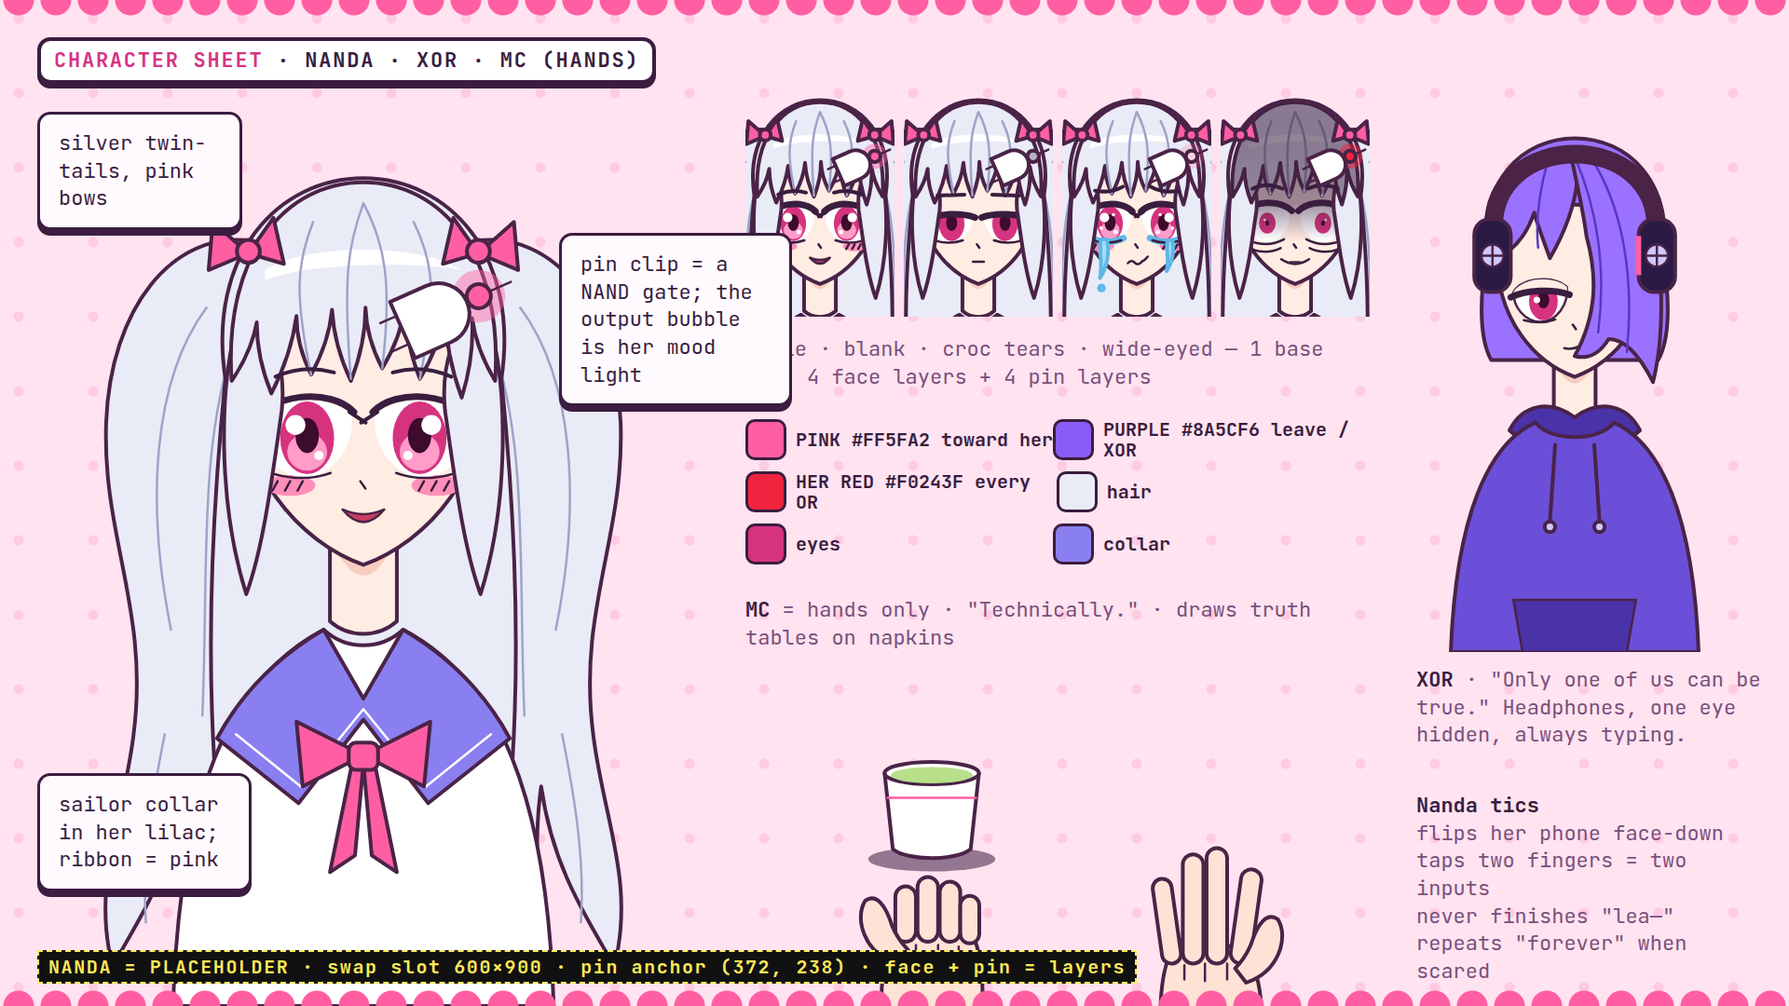
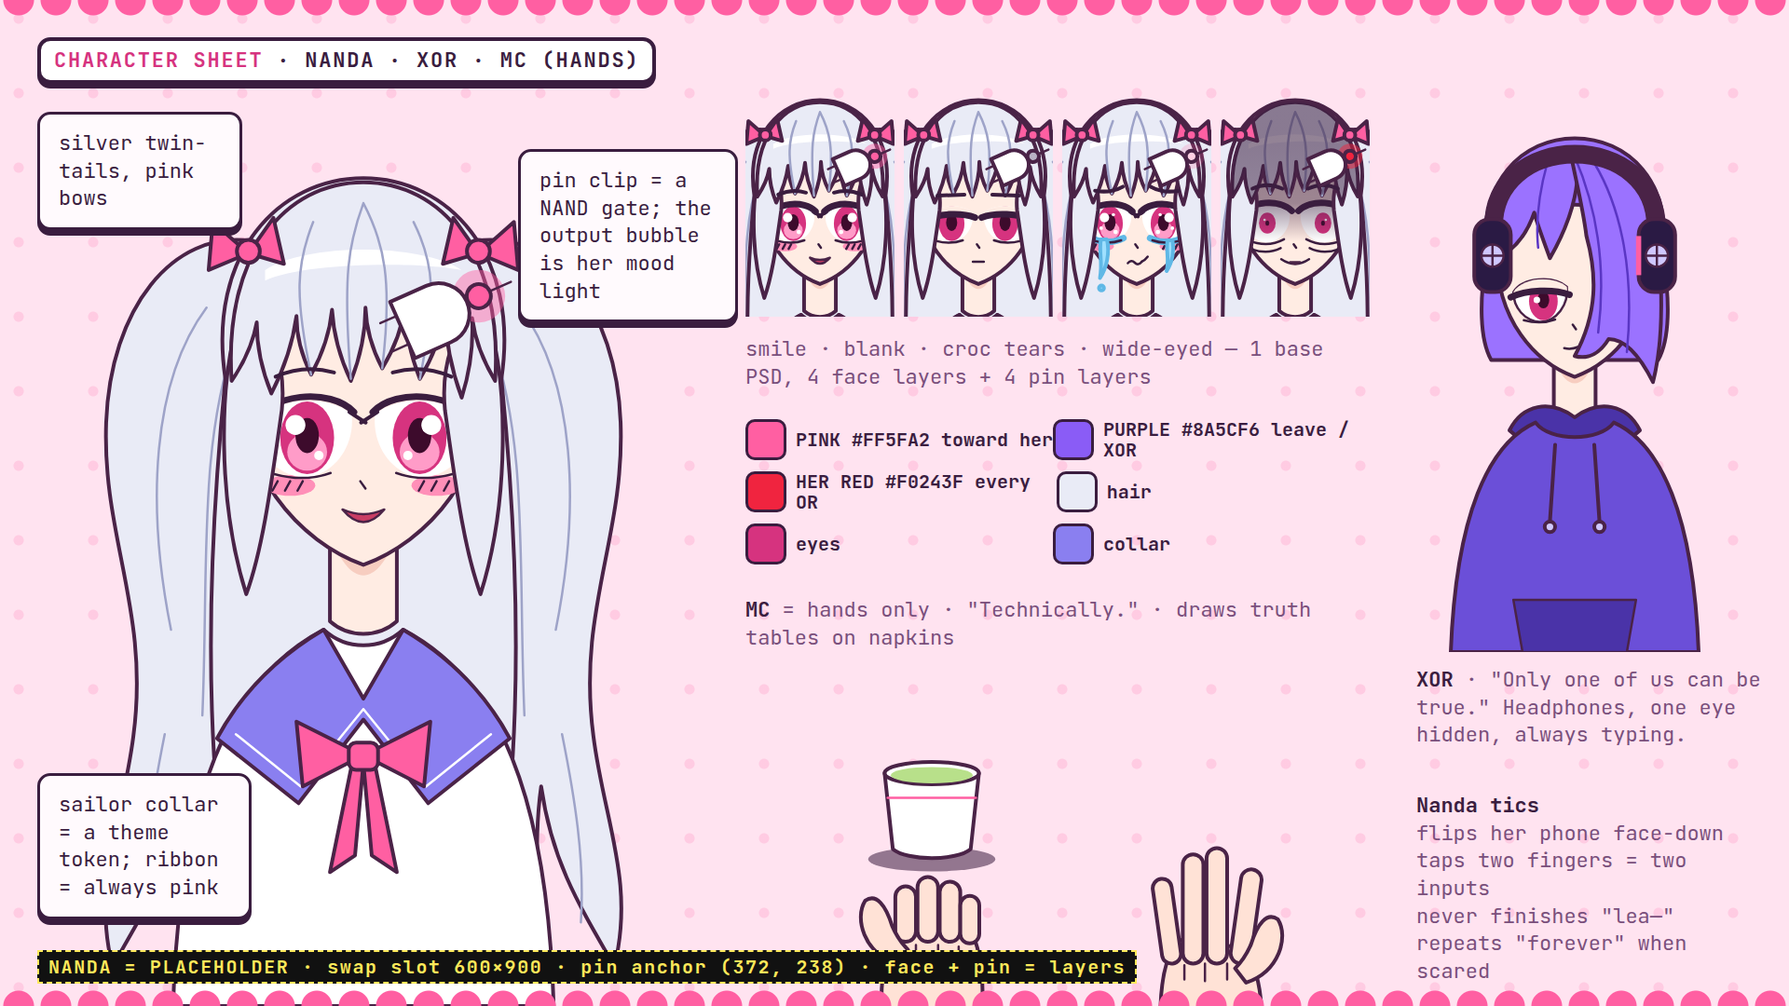
date-beta mockups R1: variant C (Circuit) + sheet callout fix
Claude-Session: https://claude.ai/code/session_01UhPYoEZsoNzPhdV9xxEjmA

Changed region(s): [[0.2812, 0.1528, 0.4688, 0.4278], [0.0, 0.825, 0.1562, 0.9167]]

diff --git a/research/date-beta-mockups/C/theme.css b/research/date-beta-mockups/C/theme.css
@@ -1,0 +1,192 @@
+/* VARIANT C — CIRCUIT. The date is a board she designed; you are a component on it.
+   Material: green solder mask, copper traces, white silkscreen, black epoxy IC packages, LEDs.
+   The dialogue box is a chip (pins top + bottom, pin-1 notch). Choices are gates: pink = the AND gate, wired + PULLED UP
+   (a pull-up resistor = the default is pink); purple = a trace that goes nowhere (net OUT_LEAVE → NC at dread 2).
+   Dread 0 = clean board. 1 = overheated (copper browns, amber glow, scorch rings). 2 = shorted (traces reroute to U1,
+   everything runs her red, solder bridges on the pins). Text always sits on black epoxy: ≥ 7:1 in every state. */
+:root {
+  --page-bg: #03100a;
+  --bg: #0c2a1d; --ink: #dcf7e6; --ink-2: #9fd0b2;
+  --surface: #0d1411; --surface-ink: #ecfff2; --edge: #c98b4a; --edge-w: 3px; --radius: 4px;
+  --shadow: 0 0 0 transparent;
+  --copper: #d9924f; --copper-2: #8a5a2e; --silk: #e6f5ea; --mask: #0c2a1d; --mask-2: #134433; --epoxy: #0d1411; --led: #3dff8a;
+  --name-bg: var(--copper); --name-ink: #1a0d03; --name-mc-bg: #e6f5ea; --name-mc-ink: #06140d;
+  --cap-bg: #000; --cap-ink: #ecfff2; --focus: #e6f5ea;
+  --font-display: 'IT', 'RC', sans-serif; --font-body: 'RC', 'Liberation Sans', sans-serif; --font-mono: 'JBM', 'DejaVu Sans Mono', monospace;
+  --art-stroke: #03120b; --art-sw: 3px; --art-sw-thin: 2px; --art-sw-fat: 6px;
+  --chat-bg: #e9f3ec; --chat-head: #f7fbf8; --bub-in: #ffffff; --bub-out: #cfe9d9; --notif-bg: #0d1411; --notif-ink: #ecfff2;
+  --flow-node: #0d1411; --flow-ink: #ecfff2; --flow-edge: #d9924f; --node-r: 3px;
+  --err-bg: #0d1411; --err-ink: #ecfff2; --fx-bg: #0c2a1d;
+
+  /* art roles. Characters = POWERED parts (light fills, dark ink). The world = unpowered board (mask fills, silkscreen lines). */
+  --c-hair: #dfe6e2; --c-hair2: #a4b3ab; --c-hairhl: #ffffff; --s-hair2: #8a9a92;
+  --c-skin: #f6e6d4; --c-skin2: #dec2a6; --c-white: #ffffff; --c-iris: #d6336a; --c-iris2: #ff8fb4; --c-pupil: #2a0a18;
+  --c-lash: #03120b; --s-lash: #03120b; --c-blush: #ff8fb0; --c-mouth: #b8465a;
+  --c-cloth: #eef5ef; --c-cloth2: #b9cfc1; --c-collar: #1d6b48; --c-stripe: #eef5ef; --s-stripe: #eef5ef; --c-ribbon: #ff5fa2;
+  --c-tie: #eef5ef; --c-pin: #ff5fa2; --c-tear: #bfeaff; --s-tear: #6fb6d6; --c-shade: rgba(3, 18, 11, .6);
+  --c-sil: #020805; --s-sil: #2f6a4c; --c-eye: #ff2a45;
+  --c-metal: #16392a; --s-metal: #b8e6c8; --c-wall: #0f3324; --s-wall: #6fb892; --c-wall2: #0c2a1d; --s-wall2: #6fb892;
+  --c-floor: #0a2419; --s-floor: #6fb892; --c-floor2: #071a12; --s-floor2: #4f9a74;
+  --c-glass: #051510; --s-glass: #b8e6c8; --c-seat: #1b4a36; --s-seat: #b8e6c8; --c-light: #d9f7e4; --s-light: #b8e6c8;
+  --c-wood: #6b4524; --s-wood: #e0a46a; --c-wood2: #4f321a; --s-wood2: #e0a46a; --c-tile: #103826; --s-tile: #6fb892;
+  --c-cup: #eef5ef; --c-tea: #9cc46a; --c-steam: none; --s-steam: #dcf7e6; --c-plum: #e8335c; --c-egg: #f2cf4a; --c-mochi: #f7fbf8;
+  --c-phone: #0d1411; --s-phone: #d9924f; --c-screen: #e9f3ec; --c-xhair: #8a5cf6; --c-xhair2: #6a45d6; --s-xhair2: #5a36c4;
+  --c-hood: #2a2350; --c-hood2: #1c173a; --c-cans: #0d1411; --c-hand: #f6e6d4; --c-hand2: #dec2a6; --c-sleeve: #1d6b48;
+  --c-paper: #e6f5ea; --s-paper: #b8e6c8; --c-frame: #d9924f; --c-candle: #eef5ef; --c-flame: #ffc868; --c-night: #04130c; --s-night: #2f6a4c;
+  --c-shoe: #2b1d12; --s-shoe: #e0a46a; --c-shoe2: #0d1411; --c-slipper: #1b4a36; --s-slipper: #b8e6c8; --c-strap: #b8e6c8;
+  --c-accent: #d9924f; --s-accent: #d9924f;
+}
+.pin-hum .pinbub { fill: var(--pink); } .pin-hum .pinglow { fill: var(--pink); opacity: .55; }
+.pin-flicker .pinbub { fill: #ffc4dc; } .pin-flicker .pinglow { fill: var(--pink); opacity: .2; }
+.pin-red .pinbub { fill: var(--her); } .pin-red .pinglow { fill: var(--her); opacity: .6; }
+.pin-off .pinbub { fill: #4f6a5c; } .pin-off .pinglow { opacity: 0; }
+
+/* ---------- board material: solder mask + 0.1" grid ---------- */
+.board { background: var(--bg) radial-gradient(circle at 20px 20px, rgba(184, 230, 200, .16) 2px, transparent 3px) 0 0 / 40px 40px; }
+.board > .label { top: 30px; padding: 8px 12px; background: #04100a; color: var(--silk); border: 2px solid var(--silk); border-radius: 0; font-family: var(--font-mono); }
+.board > .label b { color: #ffb070; }
+.board > .label::before { content: 'J0 '; color: var(--copper); }
+.pcb { position: absolute; inset: 0; pointer-events: none; z-index: 12; }
+.pcb svg { width: 100%; height: 100%; display: block; }
+.pcb .tr { fill: none; stroke: var(--copper); stroke-width: 6; stroke-linecap: round; stroke-linejoin: round; opacity: .9; }
+.pcb .tr.w { stroke-width: 12; }
+.pcb .via { fill: #04100a; stroke: var(--copper); stroke-width: 5; }
+.pcb .hole { fill: #020604; stroke: #c9ccc4; stroke-width: 10; }
+.pcb .silk { fill: none; stroke: var(--silk); stroke-width: 3; }
+.pcb text { font: 700 22px/1 var(--font-mono); fill: var(--silk); letter-spacing: .08em; }
+.pcb .led { stroke: #04100a; stroke-width: 3; }
+.pcb .led.g { fill: var(--led); } .pcb .led.a { fill: #ffb020; } .pcb .led.r { fill: var(--her); } .pcb .led.o { fill: #18301f; }
+.pcb .scorch { fill: url(#scorch); }
+.refdes { position: absolute; z-index: 15; font: 700 30px/1 var(--font-mono); color: var(--silk); letter-spacing: .06em; padding-left: 16px; border-left: 3px solid var(--silk); }
+.refdes small { font-size: 20px; color: var(--ink-2); }
+.refdes.hot { color: #ffb070; border-color: #ffb070; }
+.refdes.short { color: #fff; border-color: var(--her); background: var(--her); padding: 6px 12px; }
+
+/* ---------- dialogue box = an IC package ---------- */
+.dlg { background: radial-gradient(circle at 0 50%, #04100a 22px, transparent 23px), radial-gradient(circle at 34px 34px, #2b3a33 7px, transparent 8px), var(--epoxy);
+  border: 3px solid #2e3d36; border-radius: 3px; padding: 46px 64px 38px 72px; }
+.dlg::before, .dlg::after { content: ''; position: absolute; left: 60px; right: 60px; height: 18px; pointer-events: none;
+  background: repeating-linear-gradient(90deg, #c9ccc4 0 22px, transparent 22px 58px); }
+.dlg::before { top: -21px; } .dlg::after { bottom: -21px; }
+.dlg .who { top: -34px; left: 120px; z-index: 2; border-radius: 0; font-family: var(--font-mono); font-size: 28px; padding: 9px 16px; letter-spacing: .1em; border: 3px solid #04100a; }
+.dlg .who::before { content: 'U1 · '; opacity: .75; }
+.dlg.mc .who::before { content: 'J1 · '; }
+.dlg.crowd .who::before { content: 'BUS[0:31] · '; }
+.dlg .next { font-family: var(--font-mono); color: var(--ink-2); }
+.dlg.narr { border-style: solid; border-color: #3d4f46; }
+.dlg.narr .line { color: #cfe6d8; }
+.dlg.head { background: transparent; border: 3px dashed var(--pink); }
+.dlg.head::before, .dlg.head::after { background: repeating-linear-gradient(90deg, rgba(255, 95, 162, .55) 0 22px, transparent 22px 58px); }
+.dlg.head .who { color: var(--pink); background: #04100a; border: 3px dashed var(--pink); }
+.dlg.head .who::before { content: 'U1/INT · '; }
+.dlg.head .line { font-family: var(--font-mono); font-size: 44px; color: #ffc4dc; font-style: normal; }
+.dlg.crowd .line { font-family: var(--font-display); font-weight: 800; font-size: 70px; letter-spacing: .02em; }
+.dlg.crowd .who { background: #04100a; color: var(--silk); border-color: var(--silk); }
+
+/* ---------- choices = gates. Pink: the AND gate, wired, PULLED UP (default). Purple: a trace to nowhere. ---------- */
+.choice { border-radius: 4px; font-family: var(--font-body); font-weight: 700; box-shadow: 0 0 0 4px #04100a; }
+.choice.pink { border-radius: 4px 120px 120px 4px; padding-right: 110px; border: 4px solid #04100a;
+  background: radial-gradient(circle at 0 0, rgba(255, 255, 255, .25) 0 30%, transparent 31%) no-repeat, var(--pink); }
+.choice.pink::before { content: ''; position: absolute; left: -46px; top: 30%; width: 46px; height: 40%; pointer-events: none;
+  border-top: 8px solid var(--copper); border-bottom: 8px solid var(--copper); }
+.choice.pink::after { content: '♥'; position: absolute; right: 26px; top: 50%; transform: translateY(-50%); width: 60px; height: 60px; display: grid; place-items: center;
+  border-radius: 50%; background: #04100a; color: var(--pink); font: 700 36px/1 var(--font-body); box-shadow: 0 0 0 4px var(--pink), 0 0 26px rgba(255, 95, 162, .8); }
+.choice.purple { border: 4px dashed #d8c8ff; box-shadow: none; }
+.choice.purple::after { content: 'OUT_LEAVE'; position: absolute; right: 14px; top: 10px; font: 700 18px/1 var(--font-mono); letter-spacing: .08em; color: #efe8ff; opacity: .9; }
+.choice .key { background: #04100a; color: var(--silk); border-radius: 3px; border: 2px solid var(--silk); }
+.choice .def { font-family: var(--font-mono); font-size: 20px; opacity: 1; }
+.choice.pink .def::before { content: 'R1 PULL-UP · '; }
+.choice.is-hover { outline: 6px solid var(--silk); outline-offset: 8px; }
+.choice.is-disabled { border: 4px solid #6d6488; }
+.choice.is-disabled::after { content: 'NC ✕'; font-size: 24px; color: #fff; top: 50%; transform: translateY(-50%); right: 26px; }
+/* timer = an LED bar graph on C1 (discharging toward pink) */
+.timer { height: 34px; border-radius: 0; border: 3px solid var(--silk); background: #04100a; margin-left: 0; }
+.timer i { border-radius: 0; background: repeating-linear-gradient(90deg, var(--pink) 0 30px, transparent 30px 40px); background-size: auto; box-shadow: 0 0 22px rgba(255, 95, 162, .45); }
+.timer i::after { content: '♥'; color: var(--pink); right: -30px; }
+.timer::before { content: 'C1 · DISCHARGING → ♥'; position: absolute; left: 0; top: 40px; background: #04100a; padding: 4px 8px; font: 700 20px/1 var(--font-mono); letter-spacing: .1em; color: var(--silk); }
+.timer .secs { font-family: var(--font-mono); background: #04100a; padding: 3px 8px; }
+
+/* captions, chrome */
+.cap { border-radius: 0; border-left: 10px solid var(--copper); background: #000; }
+.chrome button { border-radius: 0; background: #04100a; color: var(--silk); border: 2px solid var(--copper); font-family: var(--font-mono); }
+.chrome button.on { background: var(--copper); color: #1a0d03; }
+
+/* CW + pause = a datasheet page (the one honest paper in the world; never corrupts) */
+.cw, .pause { background: #f3f1e7; color: #111; border: 0; border-radius: 0; box-shadow: 0 0 0 4px #04100a, 14px 14px 0 rgba(0, 0, 0, .45); padding-top: 92px; }
+.cw::before, .pause::before { position: absolute; left: 0; right: 0; top: 0; padding: 14px 22px; background: #111; color: #f3f1e7; font: 700 22px/1 var(--font-mono); letter-spacing: .12em; }
+.cw::before { content: 'FIGUR SEMICONDUCTOR · DATE-β · READ FIRST'; }
+.pause::before { content: 'PIN CONFIGURATION · PAUSED'; }
+.cw h2, .pause h2 { font-family: var(--font-display); font-weight: 800; letter-spacing: -.01em; color: #111; border-bottom: 4px solid #111; padding-bottom: 12px; }
+.cw li::before { content: '▪ '; color: #111; }
+.pause ol { counter-reset: pin; gap: 6px; }
+.pause li { counter-increment: pin; border-radius: 0; border: 0; border-bottom: 2px solid #c9c6b8; padding: 12px 10px; font-size: 32px; }
+.pause li::before { content: counter(pin); width: 44px; font: 700 22px/1 var(--font-mono); color: #6b6a60; }
+.pause li.sel { background: #111; color: #f3f1e7; border-color: #111; }
+.pause li.sel::before { color: var(--pink); }
+.pause li kbd, .pause li .val { color: inherit; border-color: currentColor; border-radius: 0; }
+.btn { border-radius: 0; font-family: var(--font-body); background: #fff; color: #111; border-color: #111; }
+.btn.primary { background: #111; color: #f3f1e7; }
+
+.phone { background: #0d1411; border-color: var(--copper); }
+.notif { border-radius: 4px; border: 3px solid var(--copper); }
+.pinerr { border-radius: 0; border: 4px solid var(--her); box-shadow: 0 0 0 8px #04100a, 0 0 60px rgba(240, 36, 63, .5); }
+.pinerr .tb { font-family: var(--font-mono); }
+.pinerr .msgx { font-family: var(--font-display); font-weight: 800; letter-spacing: -.01em; }
+.pinerr .code { color: #ffb0bb; opacity: 1; }
+.pinerr .ic { color: var(--silk); }
+.callout { background: #04100a; color: var(--silk); border: 2px solid var(--silk); border-radius: 0; font-family: var(--font-mono); }
+.callout b { color: #ffb070; }
+.dreadtag { background: #04100a; padding: 8px 12px; color: var(--silk); border: 2px solid var(--silk); }
+.tag { background: var(--copper); color: #1a0d03; border-radius: 0; }
+.mini { border-radius: 0; border-color: var(--copper); }
+.flow .node rect { stroke-width: 4px; }
+.flow .edge { stroke-width: 6px; stroke-linecap: square; }
+
+/* sprite cards = component bins */
+.card { background: #0c2a1d; border: 3px solid var(--silk); border-radius: 0; }
+.card .cardbg { background: radial-gradient(circle at 20px 20px, rgba(184, 230, 200, .16) 2px, transparent 3px) 0 0 / 40px 40px, radial-gradient(circle at 50% 38%, #1b5a3e 0 32%, transparent 33%); }
+.card .cap2 { background: #04100a; border-top: 3px solid var(--silk); }
+.card .cap2 h3 { font-family: var(--font-display); font-weight: 800; color: var(--silk); letter-spacing: 0; white-space: nowrap; font-size: 50px; }
+.card .cap2 h3::before { content: 'U1.'; color: var(--copper); font-size: 28px; margin-right: 8px; }
+.card .cap2 p { font-family: var(--font-mono); font-size: 20px; color: var(--ink-2); }
+.card.c-wide { border-color: var(--her); } .card.c-wide .cardbg { background: radial-gradient(circle at 20px 20px, rgba(240, 36, 63, .25) 2px, transparent 3px) 0 0 / 40px 40px, radial-gradient(circle at 50% 38%, #4a0d18 0 32%, #1a0508 33%); }
+.card.c-wide .cap2 { border-top-color: var(--her); } .card.c-wide .cap2 h3 { color: var(--her); }
+.panel { background: #0c2a1d; color: var(--silk); border: 3px solid var(--silk); border-radius: 0; }
+.panel h3 { font-family: var(--font-mono); font-weight: 700; font-size: 32px; color: var(--silk); background: #04100a; padding: 6px 10px; }
+.panel.p-dark { background: #04100a; } .panel.p-xor { background: #1a1638; }
+.xornote { background: #04100a; border-radius: 0; color: var(--silk); }
+.fx { border-radius: 0; border-color: var(--silk); }
+.fx .ctl { background: #04100a; color: var(--silk); }
+.fx .ctl button { border-radius: 0; }
+.fxline, .ovbox, .ovlines p { border-radius: 0; background: var(--epoxy); color: var(--surface-ink); border-color: #2e3d36; }
+.sw i { border-radius: 0; }
+
+/* ---------- DREAD 1: overheated ---------- */
+[data-dread="1"] { --copper: #b8662a; --edge: #ff8a3a; --led: #ffb020;
+  --c-wall: #1d3322; --c-wall2: #16291b; --c-floor: #142418; --s-wall: #d9a060; --s-floor: #c08850; --s-tile: #c08850; --s-seat: #e0b080; }
+.board[data-dread="1"] { background: radial-gradient(ellipse at 70% 60%, rgba(120, 60, 10, .45), transparent 45%), var(--bg) radial-gradient(circle at 20px 20px, rgba(255, 176, 80, .16) 2px, transparent 3px) 0 0 / 40px 40px; }
+[data-dread="1"] .dlg { border-color: #7a4a22; box-shadow: 0 0 0 3px rgba(255, 138, 58, .6), 0 0 44px rgba(255, 120, 40, .45);
+  background: radial-gradient(circle at 0 50%, #04100a 22px, transparent 23px), radial-gradient(ellipse at 92% 20%, rgba(140, 70, 20, .45), transparent 30%), var(--epoxy); }
+[data-dread="1"] .dlg::before, [data-dread="1"] .dlg::after { background: repeating-linear-gradient(90deg, #9a6a3a 0 22px, transparent 22px 58px); }
+[data-dread="1"] .timer i { background: repeating-linear-gradient(90deg, var(--pink) 0 30px, transparent 30px 40px), linear-gradient(90deg, transparent 70%, rgba(255, 176, 32, .7)); }
+[data-dread="1"] .choice.purple::after { content: 'OUT_LEAVE ?'; }
+
+/* ---------- DREAD 2: shorted. Every trace reroutes to U1. ---------- */
+[data-dread="2"] { --bg: #150608; --copper: var(--her); --edge: var(--her); --ink-2: #ffb0bb; --silk: #ffe1e6; --led: var(--her);
+  --c-wall: #2a0a10; --c-wall2: #1d060b; --c-floor: #170509; --c-floor2: #0d0205; --c-glass: #0d0205; --c-seat: #3a0d16; --c-night: #0d0205; --c-tile: #2a0a10;
+  --s-wall: #ff5a70; --s-wall2: #ff5a70; --s-floor: #c22a40; --s-floor2: #8a1a2a; --s-seat: #ff8090; --s-metal: #ff8090; --s-glass: #ff8090; --s-tile: #c22a40; --s-light: #ff8090;
+  --c-metal: #2a0a10; --c-light: #ffd0d8; --c-sil: #000; --s-sil: #6a1020; }
+.board[data-dread="2"] { background: var(--bg) radial-gradient(circle at 20px 20px, rgba(240, 36, 63, .22) 2px, transparent 3px) 0 0 / 40px 40px; }
+[data-dread="2"] .dlg { border-color: var(--her); box-shadow: 0 0 0 3px #04100a, 0 0 60px rgba(240, 36, 63, .5); }
+[data-dread="2"] .dlg::before, [data-dread="2"] .dlg::after { height: 22px;
+  background: radial-gradient(ellipse 34px 14px at 50% 50%, #c9ccc4 60%, transparent 62%) 0 0 / 116px 22px repeat-x, repeating-linear-gradient(90deg, var(--her) 0 22px, transparent 22px 58px); }
+[data-dread="2"] .dlg .who::before { content: 'U1 SHORT · '; }
+[data-dread="2"] .choice.purple::after { content: 'NC ✕'; font-size: 24px; color: #fff; }
+[data-dread="2"] .choice.pink::before { border-color: var(--her); }
+[data-dread="2"] .timer { border-color: var(--her); }
+[data-dread="2"] .cap { border-left-color: var(--her); }
+[data-dread="2"] .chrome button { border-color: var(--her); }
+[data-dread="2"] .dlg.crowd .who::before { content: 'BUS → U1 · '; }
+[data-dread="2"] { --c-light: #5a1422; --s-light: #ff8090; }
+.board > .label { max-width: 1350px; line-height: 1.3; }
+.board[data-kind="fx"] > .label { max-width: none; }

diff --git a/research/date-beta-mockups/C/theme.js b/research/date-beta-mockups/C/theme.js
@@ -1,0 +1,54 @@
+/* C — Circuit material layer: copper traces + vias along the board edges, mounting holes, status LEDs, silkscreen ID.
+   Dread 1 = overheated (scorch rings, amber LEDs). Dread 2 = shorted: extra traces reroute from every edge toward U1 (her pin). */
+(function () {
+  const via = (x, y, r = 9) => `<circle class="via" cx="${x}" cy="${y}" r="${r}"/>`;
+  const tr = (d, w = '') => `<path class="tr ${w}" d="${d}"/>`;
+  // edge bundles: stay inside the 72 px side margins so no trace ever crosses a face or a text slot
+  const edges = () => [
+    tr('M0,250 H22 L40,268 V520 L22,538 H0'), tr('M0,290 H6 V500'), tr('M58,600 V760 L40,778 V820'), via(58, 600), via(40, 820),
+    tr('M1920,130 H1898 L1880,148 V300 L1898,318 H1920'), tr('M1862,340 V440'), via(1862, 340), via(1862, 440),
+    tr('M0,960 H30 L60,990 H200', 'w'), via(200, 990, 12),
+  ].join('');
+  const holes = () => `<circle class="hole" cx="44" cy="1036" r="18"/><circle class="hole" cx="1876" cy="1036" r="18"/>`;
+  const leds = (d) => {
+    const c = [['g', 'o', 'o'], ['g', 'a', 'a'], ['r', 'r', 'r']][d];
+    return ['PWR', 'HER', 'ACT'].map((n, i) => `<rect class="led ${c[i]}" x="16" y="${120 + i * 34}" width="20" height="20"/><text x="44" y="${138 + i * 34}" style="font-size:16px">${n}</text>`).join('');
+  };
+  const id = (d) => `<text transform="translate(1906 900) rotate(-90)" style="font-size:18px">FIGUR DATE-β · REV 0.${3 + d} · U1 = NANDA</text>`;
+  const scorch = () => `<defs><radialGradient id="scorch"><stop offset="0" stop-color="#1a0d03" stop-opacity=".85"/><stop offset=".6" stop-color="#6a3a10" stop-opacity=".35"/><stop offset="1" stop-color="#6a3a10" stop-opacity="0"/></radialGradient></defs>
+    <ellipse class="scorch" cx="40" cy="520" rx="70" ry="50"/><ellipse class="scorch" cx="1880" cy="300" rx="80" ry="56"/><ellipse class="scorch" cx="200" cy="990" rx="60" ry="40"/>`;
+  // shorted: every edge trace bends toward U1 and stops in a ring of vias around her
+  const reroute = (cx, cy) => {
+    const R = 330, ends = [[-1, -0.35], [-1, 0.25], [1, -0.3], [1, 0.3], [-0.45, -1], [0.5, -1]];
+    return ends.map(([dx, dy]) => {
+      const n = Math.hypot(dx, dy), ex = cx + (dx / n) * R, ey = cy + (dy / n) * R;
+      const sx = dx < 0 ? 0 : dx > 0.9 ? 1920 : ex, sy = Math.abs(dx) > 0.9 ? ey : 0;
+      const mx = Math.abs(dx) > 0.9 ? (sx + ex) / 2 : ex, my = Math.abs(dx) > 0.9 ? sy : (sy + ey) / 2;
+      return tr(`M${sx},${sy} L${mx},${my} L${ex},${ey}`) + via(ex, ey, 10);
+    }).join('');
+  };
+  const U1 = { hud: [949, 358], pin: [1569, 358] };
+
+  window.THEME = {
+    id: 'C', name: 'Circuit',
+    overlay(kind, dread) {
+      const d = +dread;
+      if (kind === 'fx') return `<div class="pcb"><svg viewBox="0 0 1920 1080">${id(d)}</svg></div>`;
+      if (['faces', 'sils', 'details', 'sheet', 'ladder', 'flow'].includes(kind)) return `<div class="pcb"><svg viewBox="0 0 1920 1080">${holes()}${id(d)}</svg></div>`;
+      const u = U1[kind] || (kind === 'mini' ? U1.hud : null);
+      return `<div class="pcb"><svg viewBox="0 0 1920 1080">${d >= 1 ? scorch() : ''}${edges()}${d === 2 && u ? reroute(u[0], u[1]) : ''}${holes()}${leds(d)}${id(d)}</svg></div>`;
+    },
+    dreadNotes: [
+      '<b>clean board</b> · green mask, copper traces, white silkscreen. The box is a chip; her LED is the only pink part.',
+      '<b>overheated</b> · copper browns, the chip glows amber, scorch rings bloom, "OUT_LEAVE ?" gets a question mark.',
+      '<b>shorted</b> · every trace reroutes to U1, solder bridges the pins, purple reads NC ✕. Text stays on black epoxy.',
+    ],
+    extra: {
+      hud: (d) => [
+        '<div class="refdes" style="left:1216px;top:470px">U1<br><small>NANDA-01 · 3V3 ♥</small></div>',
+        '<div class="refdes hot" style="left:1216px;top:470px">U1<br><small>NANDA-01 · 71 °C</small></div>',
+        '<div class="refdes short" style="left:1216px;top:470px">U1 ⚠ SHORT</div>',
+      ][+d] || '',
+    },
+  };
+})();

diff --git a/research/date-beta-mockups/shared/pages.js b/research/date-beta-mockups/shared/pages.js
@@ -152,9 +152,9 @@
     return [board(`
       <div class="abs sheetN" style="left:40px;top:70px;width:700px;height:1010px">${A.nanda({ face: 'smile' })}</div>
       <div class="abs phtag" style="left:40px;top:1020px">NANDA = PLACEHOLDER · swap slot 600×900 · pin anchor (372, 238) · face + pin = layers</div>
-      <div class="abs callout note" style="left:600px;top:250px;width:250px">pin clip = a NAND gate; the output bubble is her mood light</div>
+      <div class="abs callout note" style="left:556px;top:160px;width:236px">pin clip = a NAND gate; the output bubble is her mood light</div>
       <div class="abs callout note" style="left:40px;top:120px;width:220px">silver twin-tails, pink bows</div>
-      <div class="abs callout note" style="left:40px;top:830px;width:230px">sailor collar in her lilac; ribbon = pink</div>
+      <div class="abs callout note" style="left:40px;top:830px;width:230px">sailor collar = a theme token; ribbon = always pink</div>
       <div class="abs faceRow" style="left:800px;top:90px;width:680px;height:260px">
         ${['smile', 'blank', 'tears', 'wide'].map((f, i) => `<div class="abs fr" style="left:${i * 170}px;top:0;width:160px;height:250px;overflow:hidden"><div class="abs" style="left:-80px;top:-40px;width:320px;height:480px">${A.nanda({ face: f })}</div></div>`).join('')}</div>
       <div class="abs note" style="left:800px;top:360px;width:680px">smile · blank · croc tears · wide-eyed — 1 base PSD, 4 face layers + 4 pin layers</div>
